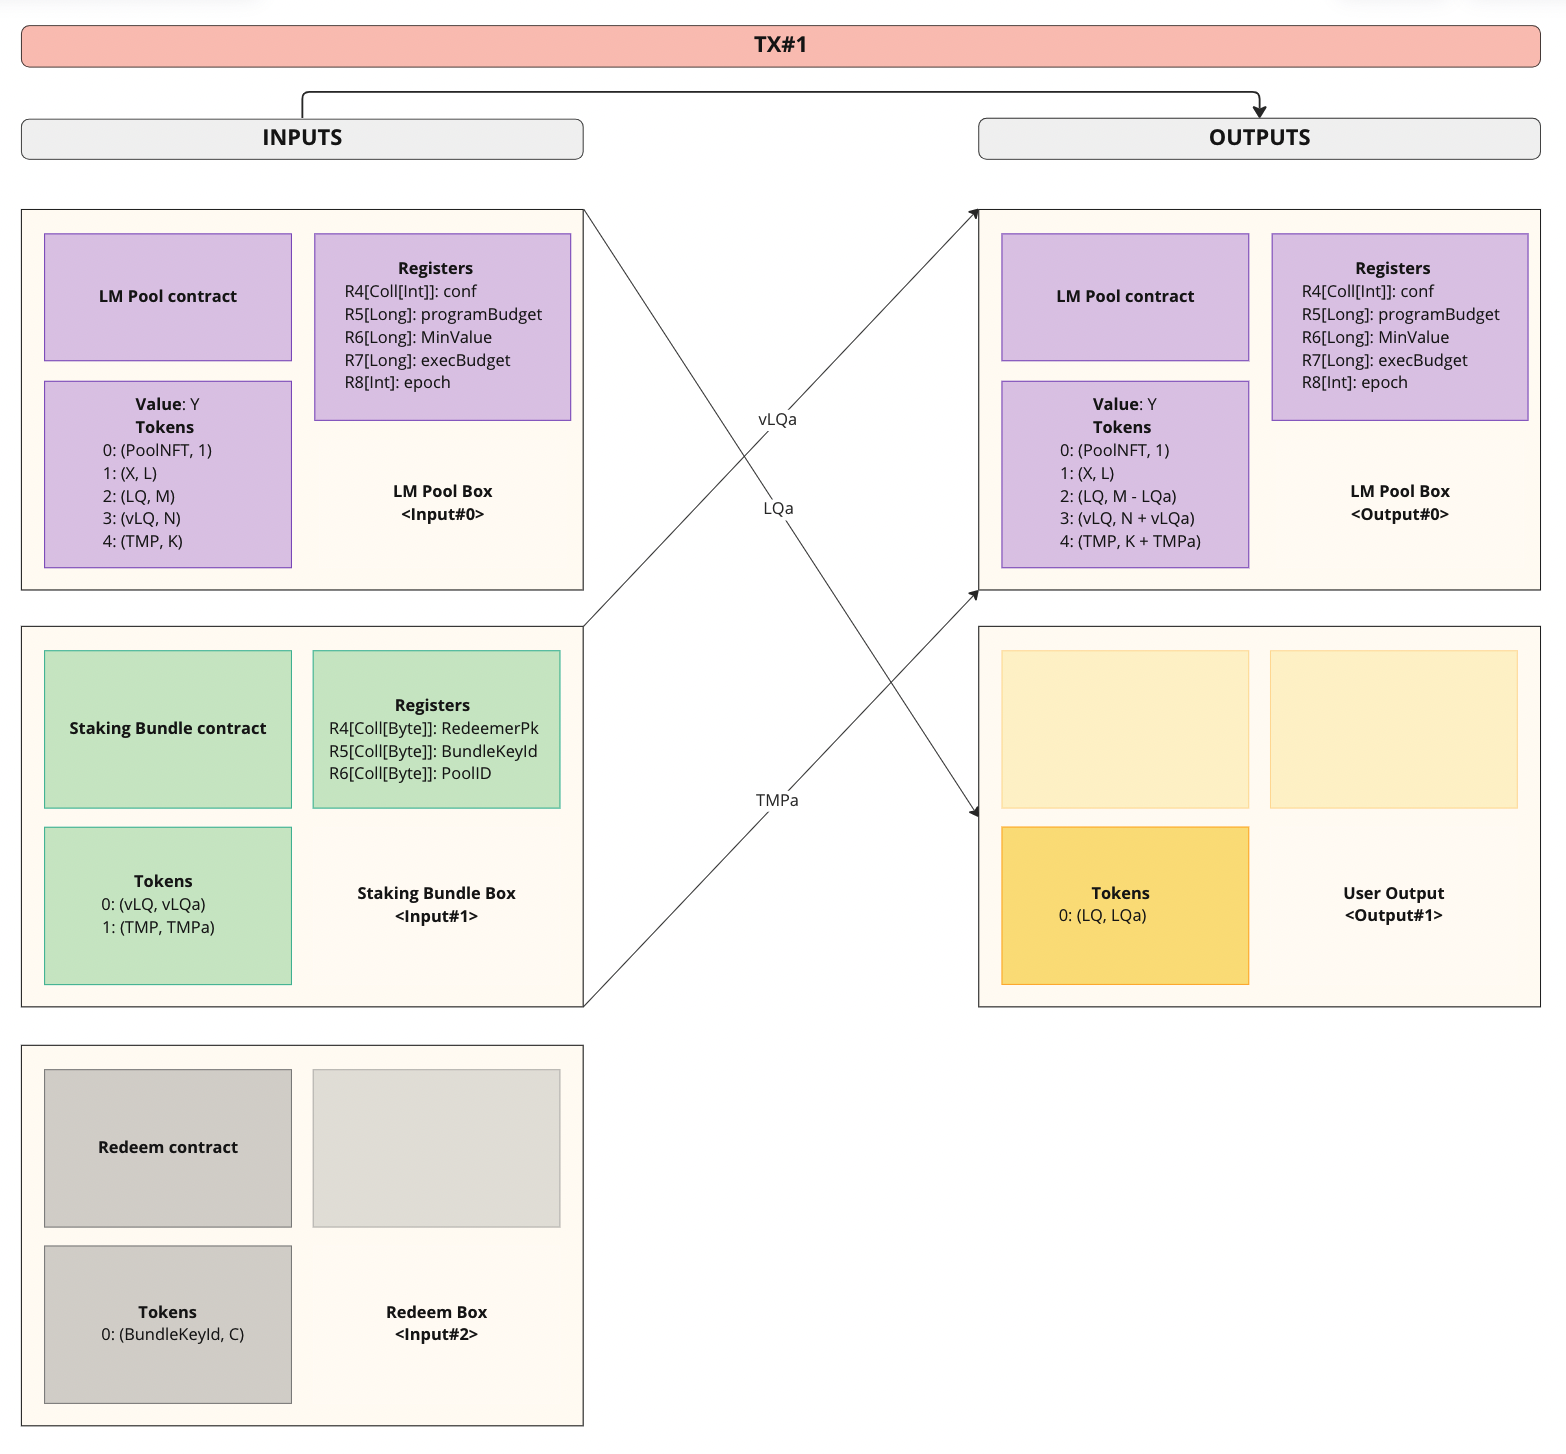
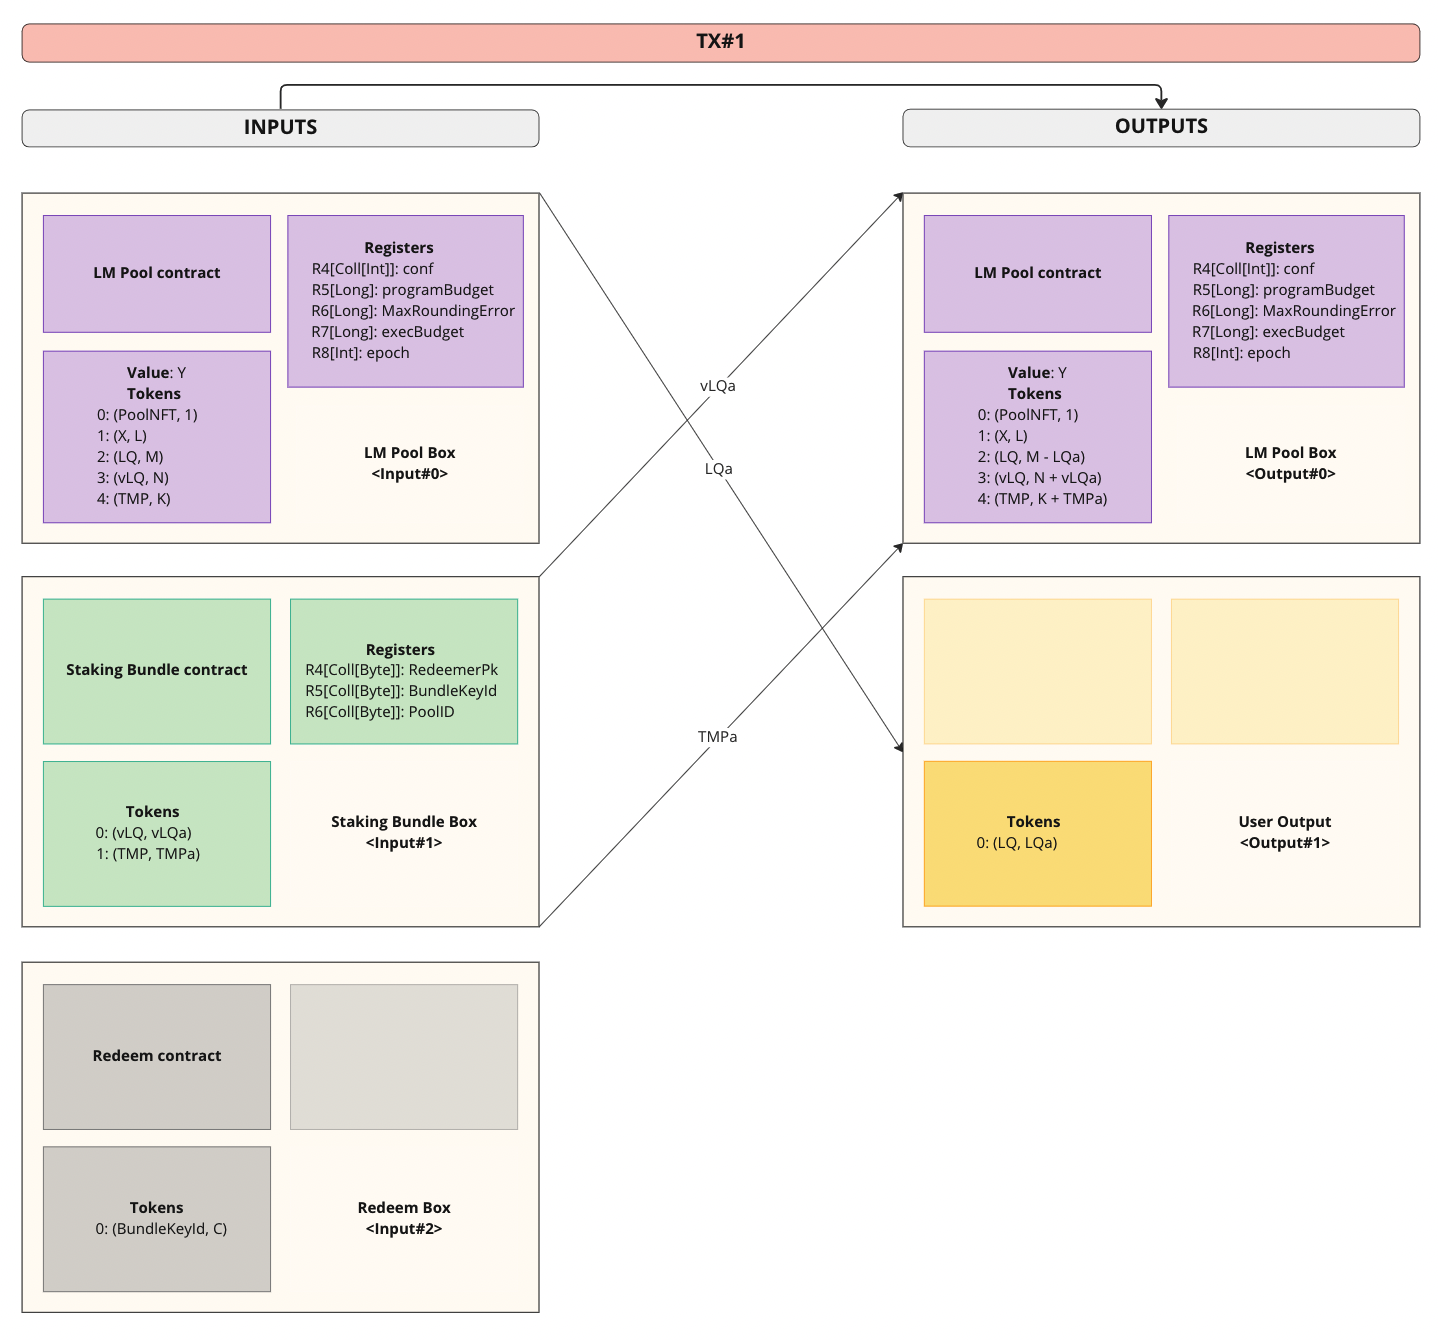
MinValue naming changed to MaxRoundingError.

diff --git a/protocols/LqMiningSimple.md b/protocols/LqMiningSimple.md
@@ -7,15 +7,15 @@ Liquidity Mining (LM) Pool is represented on-chain as a UTxO with the following 
 
 
 ### Datum (LM configuration)
-| Field           | Type        | Description                            |
-|-----------------|-------------|----------------------------------------|
-| `epochLen`      | `Integer`   | Length of one epoch in blocks          |
-| `epochNum`      | `Integer`   | Number of epochs in LM program         |
-| `programStart`  | `Integer`   | Block the program starts at            |
-| `programBudget` | `Long`      | Total LM program budget                |
-| `minValue`      | `Long`      | Total allowable residual from rounding |
-| `execBudget`    | `Long`      | Total execution budget                 |
-| `epoch`         | `Int`       | Index of the epoch being compounded    |
+| Field              | Type        | Description                            |
+|--------------------|-------------|----------------------------------------|
+| `epochLen`         | `Integer`   | Length of one epoch in blocks          |
+| `epochNum`         | `Integer`   | Number of epochs in LM program         |
+| `programStart`     | `Integer`   | Block the program starts at            |
+| `programBudget`    | `Long`      | Total LM program budget                |
+| `MaxRoundingError` | `Long`      | Total allowable residual from rounding |
+| `execBudget`       | `Long`      | Total execution budget                 |
+| `epoch`            | `Int`       | Index of the epoch being compounded    |
 
 _Notes_:
 * `execBudget` is not necessary for Self-Hosted LM Pool
